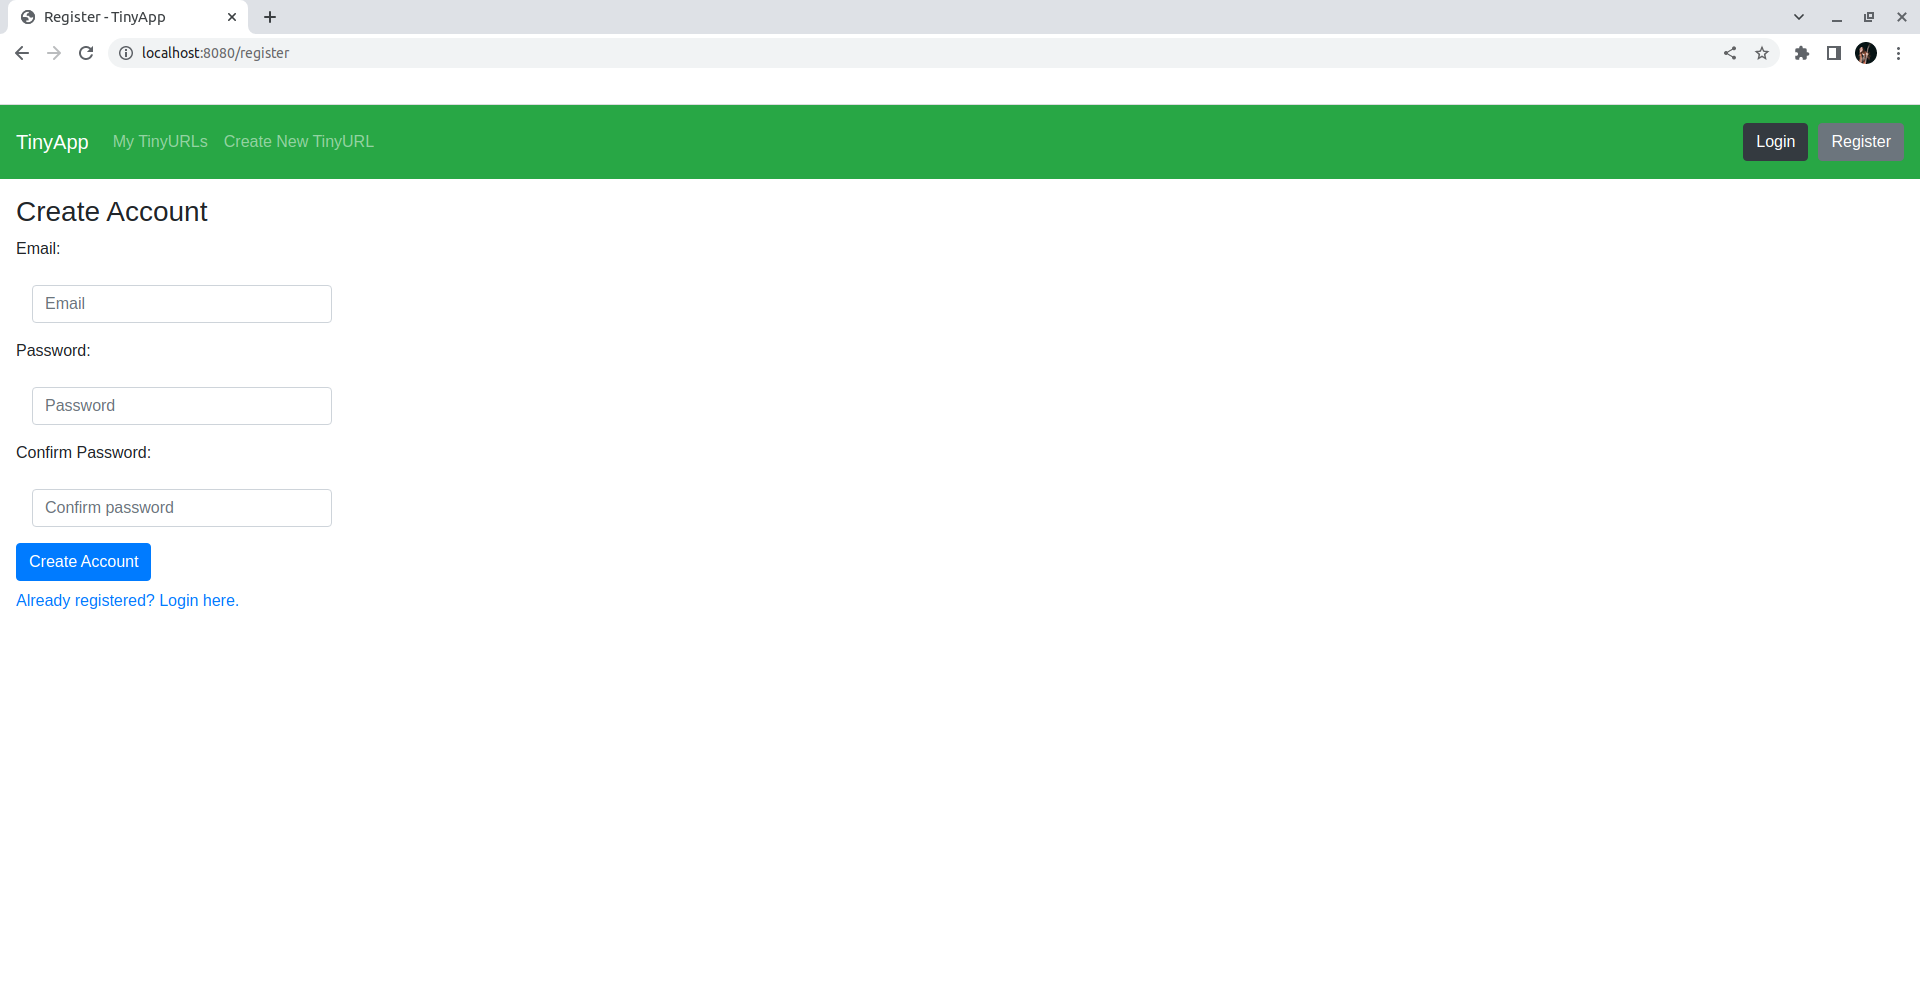
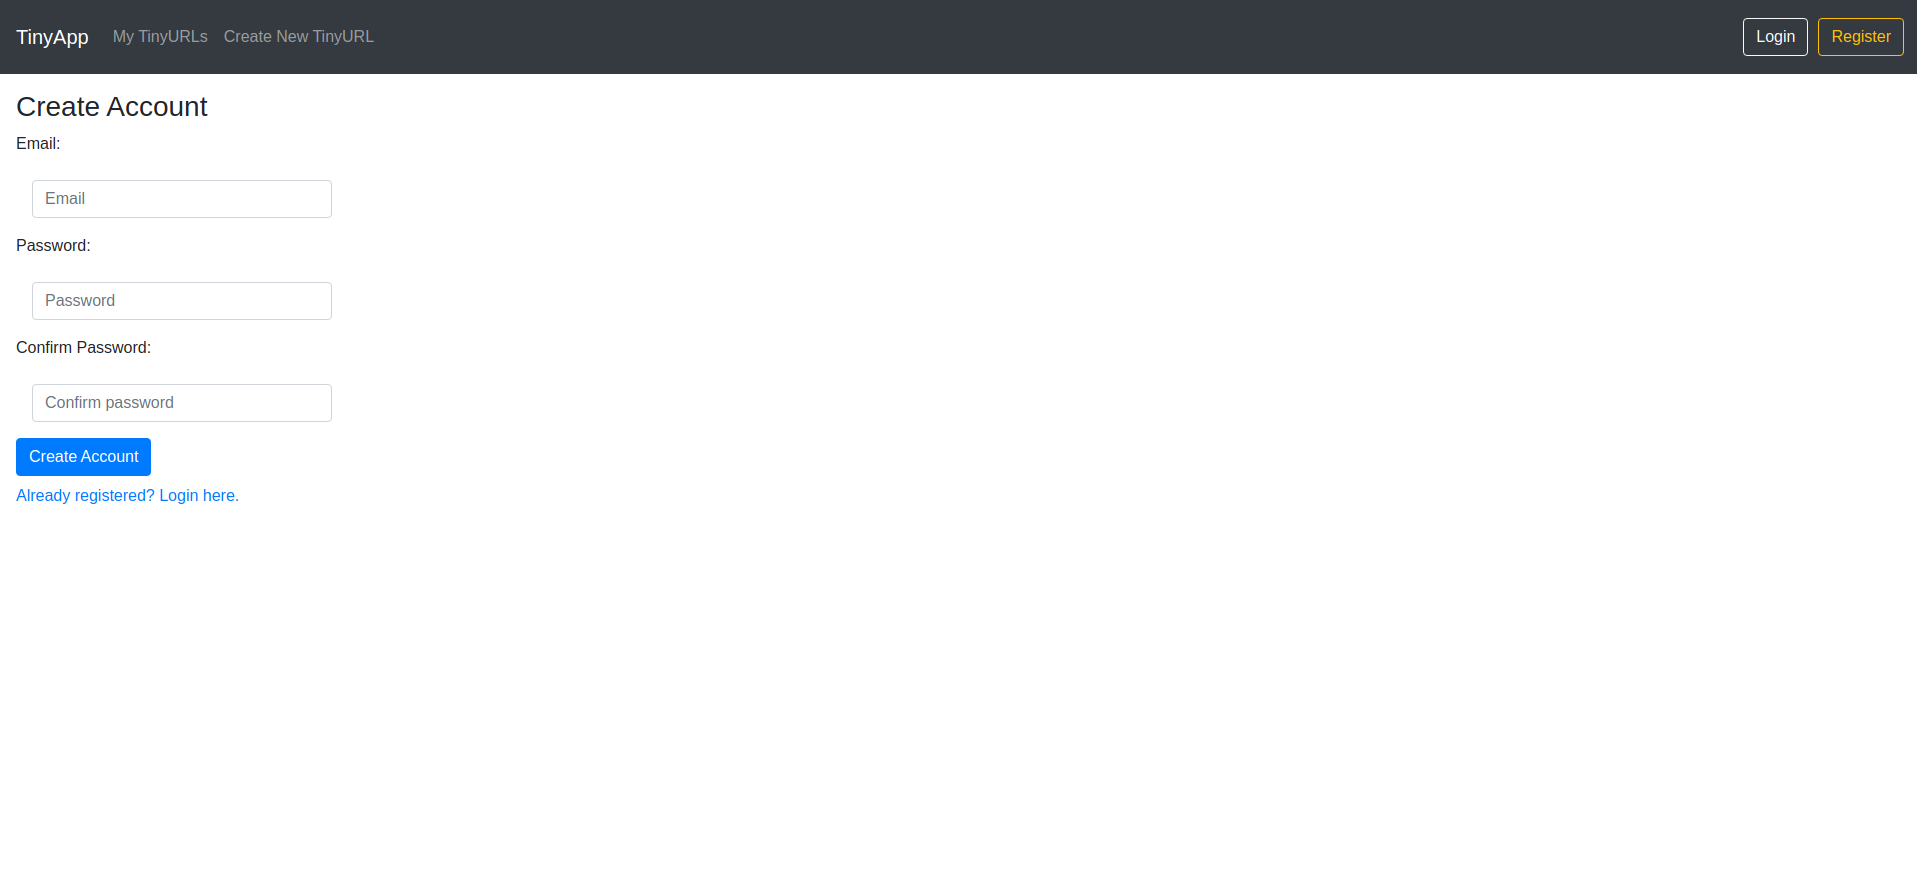
Update screenshots with header changes

Changed region(s): [[0.0, 0.0, 1.0, 0.6171]]

diff --git a/README.md b/README.md
@@ -18,14 +18,15 @@ Each time a user visits a link, it also creates additional stats, giving the spe
 &nbsp;
 <details>
   <summary>Screenshots of URLs stat pages</summary>
-  
-  !['Screenshot of TinyURL stat page w/ no views'](https://github.com/CorgiOnNeptune/tinyapp/blob/main/docs/urls-stats-no-views.png?raw=true)
-  !['Screenshot of TinyURL stat page w/ views'](https://github.com/CorgiOnNeptune/tinyapp/blob/main/docs/urls-stats-expanded.png?raw=true)
+
+  !['Screenshot of TinyURL stat page'](https://github.com/CorgiOnNeptune/tinyapp/blob/main/docs/urls-stats.png?raw=true)  
+  !['Screenshot of TinyURL stat page w/ extra stats expanded'](https://github.com/CorgiOnNeptune/tinyapp/blob/main/docs/urls-stats-expanded.png?raw=true)
+  !['Screenshot of TinyURL stat page w/ no views'](https://github.com/CorgiOnNeptune/tinyapp/blob/main/docs/urls-stats-no-views-expanded.png?raw=true)
 
 </details>
 &nbsp;
 <details>
-  <summary>Screenshots of registration page</summary>
+  <summary>Screenshot of registration page</summary>
   
   !['Screenshot of registration page'](https://github.com/CorgiOnNeptune/tinyapp/blob/main/docs/registration-page.png?raw=true)
 
